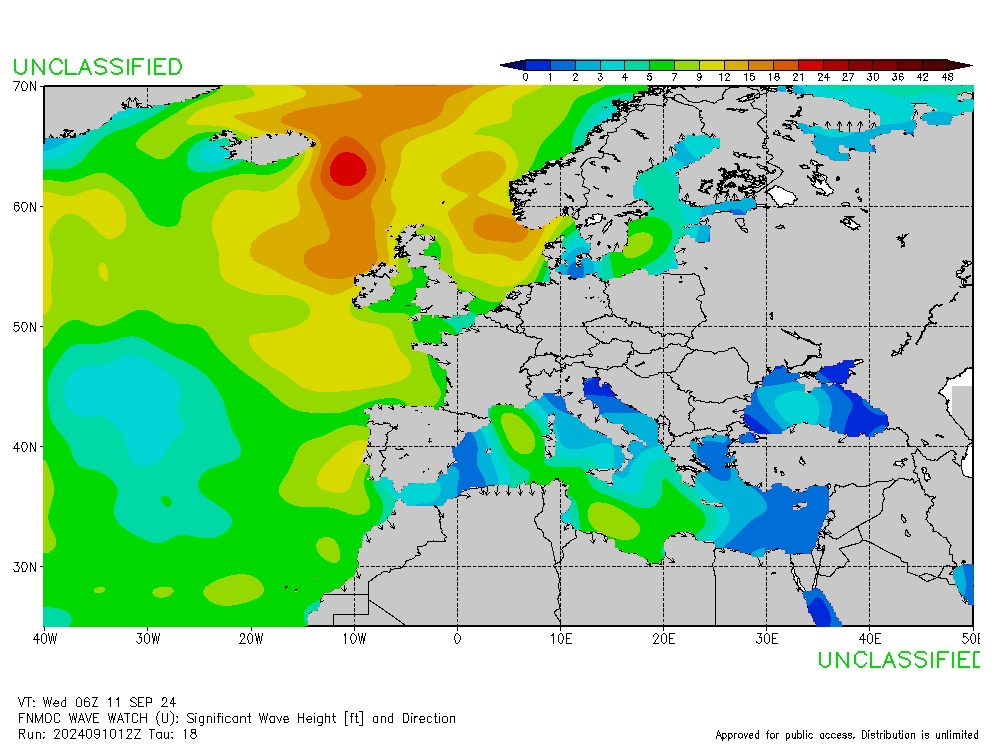
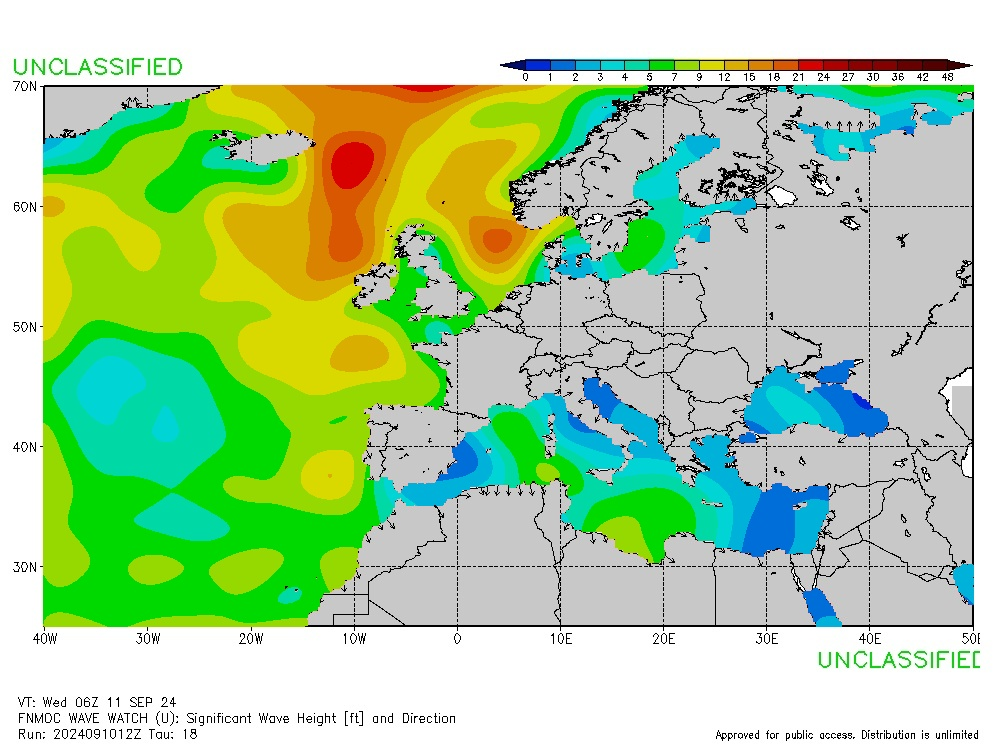
Replace iterative smoothing function to an OpenCV manipulated one.

diff --git a/Weather GIF.py b/Weather GIF.py
@@ -3,6 +3,7 @@ import cv2 as cv
 import imageio
 import os
 import tkinter as Tk
+from matplotlib import pyplot as plt
 from tkinter import messagebox
 from tkinter.filedialog import askopenfilename
 from PIL import ImageTk, Image
@@ -185,17 +186,17 @@ def plot_scale(arr):
     return plot_out
 
 # function to smooth out the colors
-def plot_smooth(arr,r):
-    ##################################################
-    # User defined: radius of smoothing
-    x,y = arr.shape
+def plot_smooth(arr,repeat):
     arr_out = np.copy(arr)
-    for i1 in range(len(arr_out)):
-        for j1 in range(len(arr_out[0])):
-            if arr[i1,j1] == 0:
-                x1, x2, y1, y2 = max(0,i1-r), min(x-1,i1+r+1), max(0,j1-r), min(y-1,j1+r+1)
-                l = arr[x1:x2,y1:y2]
-                if np.sum(l) > 0: arr_out[i1,j1] = int(np.sum(l) / np.sum(l != 0))
+    for r in range(repeat):
+        arr_num = np.zeros(arr.shape)
+        arr_den = np.zeros(arr.shape)
+        arr_bol = arr_out == 0
+        for i_psa in [0,1]:
+            for j_psa in [-1,1]:
+                arr_num = arr_num + np.roll(arr_out,           j_psa,axis = i_psa)
+                arr_den = arr_den + np.roll(np.invert(arr_bol),j_psa,axis = i_psa)
+        arr_out = arr_out + np.multiply(np.divide(arr_num,arr_den,where = arr_den != 0),arr_bol)
     return arr_out
 
 def image_restore(plot,subject,scale):
@@ -535,7 +536,7 @@ if FS.ext == ".gif" or FS.ext == ".jpg":
     c = config_read(FS.config)
     scale = scale_build_RGB(c.scale)
 
-    # This has been moved to build_config.  It shoudl be accounted for when you
+    # This has been moved to build_config.  It should be accounted for when you
     # create a new template.
     # # if the scale wasn't already coded in the config file, code it now
     # # and save the results into the config file
@@ -551,8 +552,7 @@ if FS.ext == ".gif" or FS.ext == ".jpg":
 
     # turn the image into a scalar plot and then smooth it over
     plot = plot_scale(image.copy())
-    plot = plot_smooth(plot,20)
-    plot = plot_smooth(plot,20)
+    plot = plot_smooth(plot,100)
 
     # FIX: this needs to move to "new template"
     # if we are creating a config file and new template then save the template
@@ -596,7 +596,7 @@ if FS.ext == ".gif" or FS.ext == ".jpg":
     #################################################################
     # User defined: # DFT coefficients
     # number of terms will be ((n * 2) ^ 2) * 2
-    n = 15
+    n = 10
 
     # Remove higher frequency coefficients
     DFT[n:x-n,:,:] = np.zeros((x-2*n,y,2))
@@ -614,7 +614,11 @@ if FS.ext == ".gif" or FS.ext == ".jpg":
         print("UNCLAS",                                                           file = file)
         print("SUBJ/VLF WEATHER GIF FOR " + FS.subject.upper() + "//",            file = file)
         print("RMKS/SEE INSTRUCTIONS ON CSP WEBSITE ON HOW TO USE THIS MESSAGE.", file = file)
-        print(str(x) + "/" + str(y) + "/" + str(n) + "/" + str(np.max(plot)) + "/" + FS.subject + "/WXYZ//", file = file)
+        print(str(x) + "/" + 
+              str(y) + "/" + 
+              str(n) + "/" + 
+              str(int(np.max(plot))) + "/" + 
+              FS.subject + "/WXYZ//", file = file)
         S = ""
         for i in range(n):
             for j in range(n):
